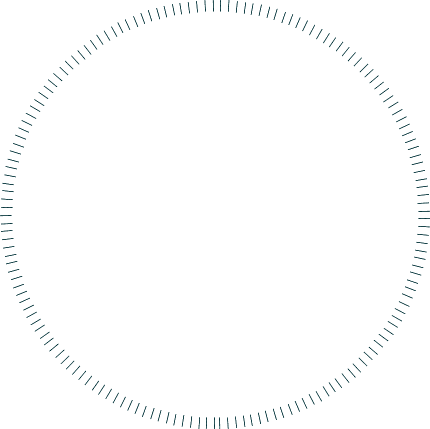
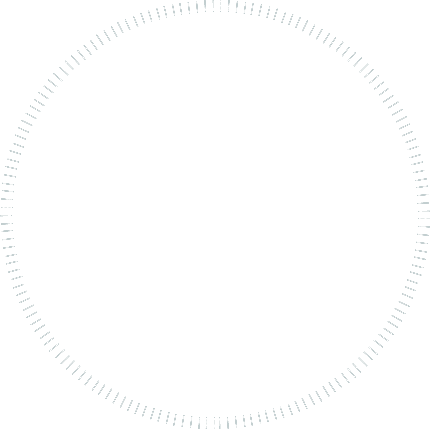
changed ellipses color

diff --git a/Website/CSS/landing_page.css b/Website/CSS/landing_page.css
@@ -104,7 +104,5 @@ h2 {
     right: 0;
     color: #000;
     position: absolute;
-    opacity: .3;
+    opacity: .6;
 }
-
-
